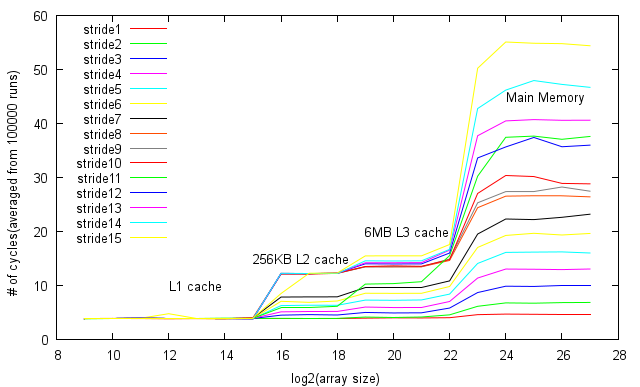
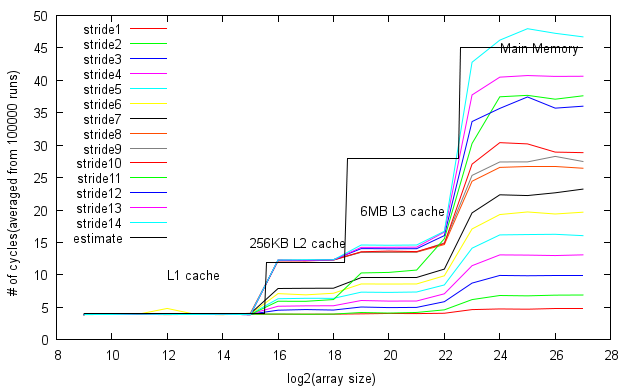
change of memoryLatencyImage.png and accuracy of estimate removal sample

diff --git a/report/src/experiments-cpuschedos.tex b/report/src/experiments-cpuschedos.tex
@@ -40,18 +40,14 @@ There is no software overhead in any of these operations.
 \paragraph{Results}
 
 \begin{center}
-\begin{tabular}{| l | l | l | l | l |}
-\hline
-Operation & Hardware cost & Software cost & Prediction & Measured \\
-\hline
-Reading the clock & 25 cycles & 0 cycles & 25 cycles & 58.555 cycles \\
-\hline
-Loop & 15 cycles & 0 cycles & 15 cycles & 12.487 cycles \\
-\hline
+\begin{tabular}{| l | l | l | l | l |} \hline
+Operation 			& Hardware cost 	& Software cost 	& Prediction	& Measured \\ \hline
+Reading the clock 	& 25 cycles		& 0 cycles			& 25 cycles 	& 58.555 cycles \\ \hline
+Loop 				& 15 cycles 		& 0 cycles 		& 15 cycles 	& 12.487 cycles \\ \hline
 \end{tabular}
 \end{center}
-\paragraph{Accuracy of Estimates}
-Our estimates are too low for the reading time, due to the cost of the memory write operation which is
+
+Compared to the actual result, our estimates are too low for the reading time, due to the cost of the memory write operation which is
 higher than excepted.
 It seems that we fill the cache latency due to the dependency of the data
 avoiding the effective use of the pipelining.
@@ -102,30 +98,29 @@ argument will cause a cost of one cycle due to the new register access.
 \begin{tabular}{| l | l | l | l | l |}
 \hline
 \# of args & Hardware cost & Software cost & Prediction & Measured \\ \hline
-0 & 10  & 0  & 10  & 14.471 cycles \\ \hline
-1 & 11  & 0  & 11  & 14.471 cycles \\ \hline
-2 & 12  & 0  & 12  & 14.455 cycles \\ \hline
-3 & 13  & 0  & 13  & 14.462 cycles \\ \hline
-4 & 14  & 0  & 14  & 14.461 cycles \\ \hline
-5 & 15  & 0  & 15  & 14.461 cycles \\ \hline
-6 & 16  & 0  & 16  & 14.456 cycles \\ \hline
-7 & 17  & 0  & 17  & 16.518 cycles \\ \hline
+0 & 2  & 8   & 10  & 14.471 cycles \\ \hline
+1 & 2  & 9   & 11  & 14.471 cycles \\ \hline
+2 & 2  & 10  & 12  & 14.455 cycles \\ \hline
+3 & 2  & 11  & 13  & 14.462 cycles \\ \hline
+4 & 2  & 12  & 14  & 14.461 cycles \\ \hline
+5 & 2  & 13  & 15  & 14.461 cycles \\ \hline
+6 & 2  & 14  & 16  & 14.456 cycles \\ \hline
+7 & 2  & 15  & 17  & 16.518 cycles \\ \hline
 \end{tabular} \\
 \includegraphics[scale=0.8]{procCallImage}
 \end{center}
 
 
 \paragraph{Accuracy of Estimates}
-The results are low as predicted.
+The results are low as predicted. Apparently the cost of accessing one more argument is too low to be detected. Only when the function take 7 aguments, which cannot all fit into the registers. The 7th argument is put into the stack and the cost for doing that turns out to be about 2 cycles.
 
 \paragraph{Success of Methodology}
-We are not able to explain the incoherent result for the procedure call with one
-argument.
-This difference for the call is not excepted but we are able to reproduce this
-behavior.
 
-The results show us that the base result for a procedure call is around 14
-cycles and that each argument increase the cost by 1 cycle as excepted.
+
+
+
+
+
 
 \subsubsection{System call overhead}
 \paragraph{Methodology}
